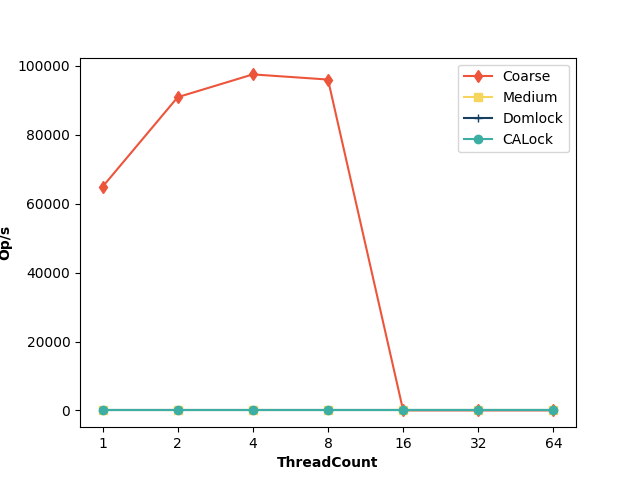
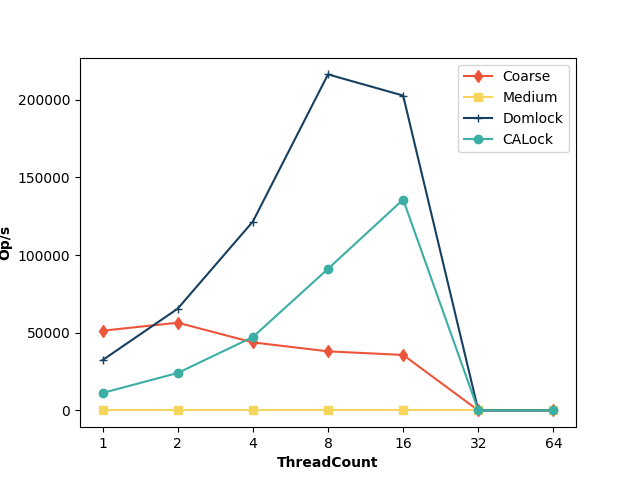
Save stable benchmarks

diff --git a/Performance Tests/graphImageGenerator.py b/Performance Tests/graphImageGenerator.py
@@ -4,7 +4,7 @@ import pandas as pd
 import numpy as np
 import sys
 # Initialize the lists for X and Y
-data = pd.read_csv(sys.argv[1])
+data = pd.read_csv("./benchmarkResults/Results.csv")
 
 df = pd.DataFrame(data)
 df.columns = df.columns.str.strip() #For column names
@@ -27,8 +27,8 @@ plt.plot(r4, df['CALock'], color='#3caea3', label='CALock', marker='o')
 plt.xlabel('ThreadCount', fontweight='bold')
 plt.ylabel('Op/s', fontweight='bold')
 
-plt.xticks([r + barWidth for r in range(len(df['ThreadCount']))], ['1', '2', '4', '8', '16','32','64'])
+plt.xticks([0,1,2,3,4,5], ['1', '2', '4', '8', '16','32'])
 
 # Create legend & Show graphic
 plt.legend()
-plt.savefig(sys.argv[2])
+plt.savefig("./benchmarkCharts/"+sys.argv[1]+".png")

diff --git a/Performance Tests/plotter.cpp b/Performance Tests/plotter.cpp
@@ -6,12 +6,13 @@
 #include<math.h>
 using namespace std;
 
-int main()
+int main(int argc, char** argv)
 {
     ofstream output("./benchmarkResults/Results.csv");
     int Iterations = 5;
     output<<"ThreadCount, Coarse, Medium, Domlock, CALock"<<"\n";
-    for(int i=0;i<7;i++)
+    int count = atoi(argv[1]);
+    for(int i=0;i<count;i++)
     {
         string threadCount = to_string((int)pow(2,i));
         ifstream c_file("./benchmarkResults/coarse"+threadCount+".txt");
